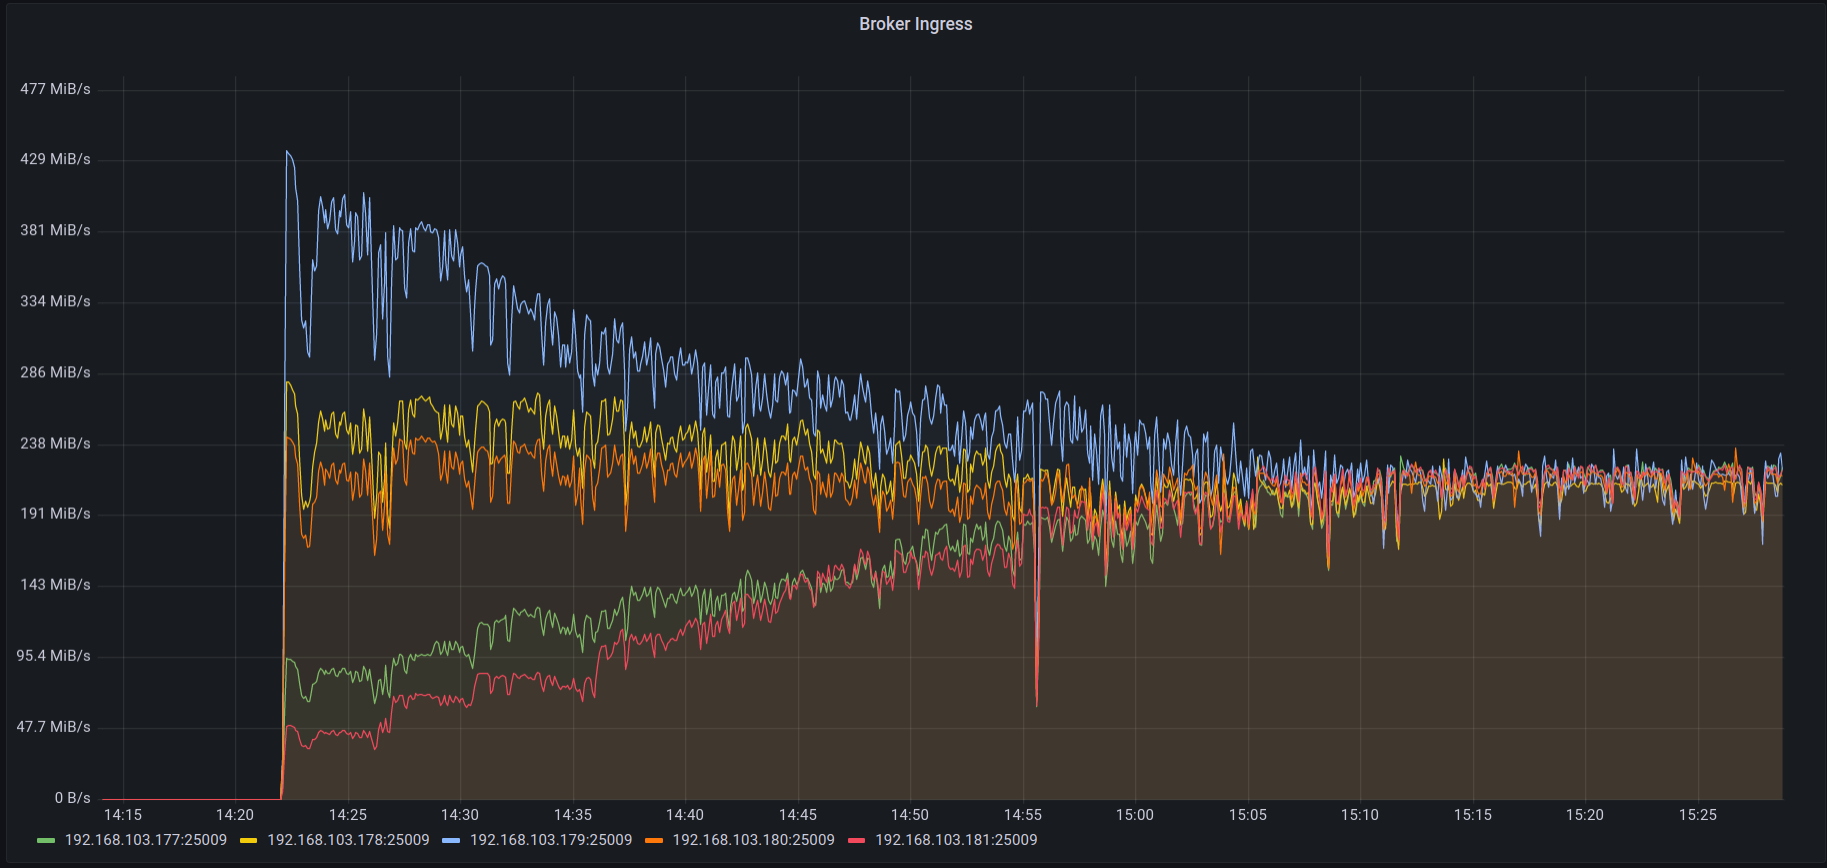
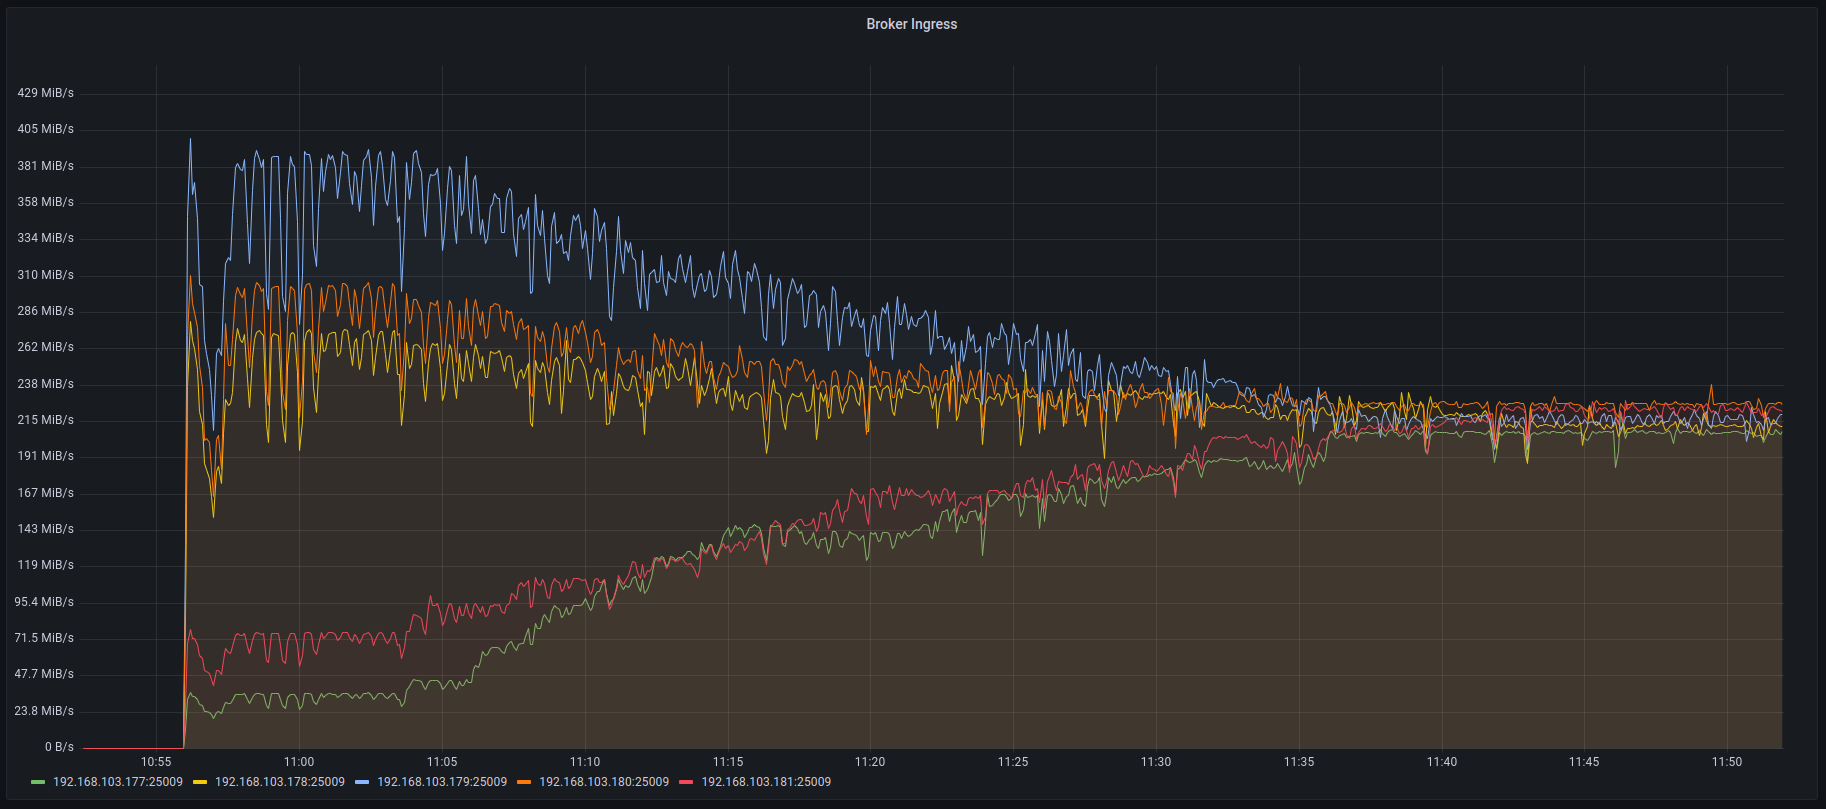
Redo balancer experiment at 5883c0d5f

diff --git a/docs/balancer/experiment_1.md b/docs/balancer/experiment_1.md
@@ -1,16 +1,16 @@
 # Astraea Balancer 測試 #1
 
-這個測試展示目前的 Astraea Balancer [(7596f59)](https://github.com/skiptests/astraea/tree/7596f590ae0f0ec370a6e257c10cc2aeb5fb5bf4) 
+這個測試展示目前的 Astraea Balancer [(5883c0d)](https://github.com/skiptests/astraea/commit/5883c0d5fbfb178714a4b3ab375d264ffcf7408d) 
 能在特定的系統環境中，平衡每個節點的 leader 數。
 
 在這次實驗中，Astraea Balancer 得到了以下結果：
 
-* 執行前節點的 Leader 數量最大最小分別為 77 和 9，執行後所有節點都服務 50 個 leader，達到完全平衡。
-* 執行前節點流量最大最小為 400 MiB/s 和 50 MiB/s，執行後各節點流量都控制在 250 MiB/s 附近。
+* 執行前節點的 Leader 數量最大最小分別為 83 和 17，執行後所有節點都服務 50 個 leader，達到完全平衡。
+* 執行前節點流量最大最小為 372 MiB/s 和 33.3 MiB/s，執行後各節點流量都控制在 210 MiB/s 附近。
 
 ## 測試情境
 
-我們透過專案內的 [WebAPI](https://github.com/skiptests/astraea/blob/7596f590ae0f0ec370a6e257c10cc2aeb5fb5bf4/docs/web_server/web_api_topics_chinese.md#%E5%BB%BA%E7%AB%8B-topic)
+我們透過專案內的 [WebAPI](https://github.com/skiptests/astraea/blob/5883c0d5fbfb178714a4b3ab375d264ffcf7408d/docs/web_server/web_api_topics_chinese.md#%E5%BB%BA%E7%AB%8B-topic)
 工具來對測試叢集產生一個 Leader 數量不平衡的情境。WebAPI 在建立 topic 時能夠透過特定參數來以 Binomial Distribution 營造 topic logs 
 在叢集內分佈不均的情況。這最終形成的分佈類似於對生產環境 Kafka 叢集不斷加減 topics/partitions/nodes 所導致的資料配置不均勻狀態。
 
@@ -61,9 +61,9 @@
 
 這個實驗中包含：
 
-* 5 個 Apache Kafka Broker 節點（version 3.1.0）。
+* 5 個 Apache Kafka Broker 節點（version 3.3.1）。
   * 各個節點包含 3 個 log dir，每個有 844GB 空間的 SSD
-* 1 個 Zookeeper 節點（version 3.7.1）。
+* 1 個 Zookeeper 節點（version 3.8.0）。
 * 1 個 Performance Tool 施打資料
 
 以下為建構環境的步驟：
@@ -71,8 +71,8 @@
 ### 建立 Kafka 叢集
 
 請依照上述的環境建立叢集，您可以使用專案內的 
-[./docker/start_zookeeper.sh](https://github.com/skiptests/astraea/blob/7596f590ae0f0ec370a6e257c10cc2aeb5fb5bf4/docs/run_zookeeper.md) 和
-[./docker/start_broker.sh](https://github.com/skiptests/astraea/blob/7596f590ae0f0ec370a6e257c10cc2aeb5fb5bf4/docs/run_kafka_broker.md) 來建立叢集。
+[./docker/start_zookeeper.sh](https://github.com/skiptests/astraea/blob/5883c0d5fbfb178714a4b3ab375d264ffcf7408d/docs/run_zookeeper.md) 和
+[./docker/start_broker.sh](https://github.com/skiptests/astraea/blob/5883c0d5fbfb178714a4b3ab375d264ffcf7408d/docs/run_kafka_broker.md) 來建立叢集。
 
 ## 效能資料攝取
 
@@ -81,9 +81,9 @@
 進行底層硬體效能資料的攝取。
 
 您可以使用專案內的 
-[./docker/start_node_exporter.sh](https://github.com/skiptests/astraea/blob/7596f590ae0f0ec370a6e257c10cc2aeb5fb5bf4/docs/run_node_exporter.md),
-[./docker/start_prometheus.sh](https://github.com/skiptests/astraea/blob/7596f590ae0f0ec370a6e257c10cc2aeb5fb5bf4/docs/run_prometheus.md) 和
-[./docker/start_grafana.sh](https://github.com/skiptests/astraea/blob/7596f590ae0f0ec370a6e257c10cc2aeb5fb5bf4/docs/run_grafana.md) 來建構監控環境。
+[./docker/start_node_exporter.sh](https://github.com/skiptests/astraea/blob/5883c0d5fbfb178714a4b3ab375d264ffcf7408d/docs/run_node_exporter.md),
+[./docker/start_prometheus.sh](https://github.com/skiptests/astraea/blob/5883c0d5fbfb178714a4b3ab375d264ffcf7408d/docs/run_prometheus.md) 和
+[./docker/start_grafana.sh](https://github.com/skiptests/astraea/blob/5883c0d5fbfb178714a4b3ab375d264ffcf7408d/docs/run_grafana.md) 來建構監控環境。
 
 本次實驗所使用的 Dashboard 可以在[這裡](resources/experiment_1_grafana-1663659783116.json)找到
 
@@ -94,7 +94,7 @@
 ```script
 git clone https://github.com/skiptests/astraea.git
 cd astraea
-git checkout 7596f590ae0f0ec370a6e257c10cc2aeb5fb5bf4
+git checkout 5883c0d5fbfb178714a4b3ab375d264ffcf7408d
 ```
 
 接著執行 Astraea Web Service，Astraea Web Service 提供一系列的功能，能幫助我們對 Kafka 進行管理和操作。
@@ -117,7 +117,7 @@ curl -X POST http://localhost:8001/topics \
 
 
 接着要開始對叢集輸入資料，我們在 P1 設備上執行下面的指令以啓動 
-[Astraea Performance Tool](https://github.com/skiptests/astraea/blob/7596f590ae0f0ec370a6e257c10cc2aeb5fb5bf4/docs/performance_benchmark.md)
+[Astraea Performance Tool](https://github.com/skiptests/astraea/blob/5883c0d5fbfb178714a4b3ab375d264ffcf7408d/docs/performance_benchmark.md)
 
 ```shell
 ./gradlew run --args="performance --bootstrap.servers <broker-addresses> --topics imbalance-topic --producers 8 --consumers 16 --key.size 10KiB --run.until 3h"
@@ -138,19 +138,76 @@ curl -X POST http://localhost:8001/topics \
 從圖中可以看出有一定的負載不平衡現象存在着。接着我們要開始做負載平衡，透過以下指令來執行 Leader Balance
 
 ```shell
-./gradlew run --args="balance-demo --bootstrap.servers <broker-addresses>"
+curl -X POST http://localhost:8001/balancer \
+    -H "Content-Type: application/json" \
+    -d '{ 
+      "timeout": "10s" ,
+      "balancer": "org.astraea.common.balancer.algorithms.GreedyBalancer",
+      "balancer-config": {
+        "shuffle.plan.generator.min.step": "1",
+        "shuffle.plan.generator.max.step": "5"
+      },
+      "costWeights": [ { "cost": "org.astraea.common.cost.ReplicaLeaderCost", "weight":  1} ],
+      "max-migrated-leader": "10"
+    }'
 ```
 
-> 未來 Balancer 的運作和執行都會透過 Web API 來操作
+上述指令對本機的 Web Service 發起一個 `POST /balancer` 的 HTTP Request，這個 Request 請 Web Service 根據我們給定的參數和
+目前叢集的狀態，去生成一個新的負載平衡計劃。以下是關於這個計劃的細節
 
-每次執行都會做一輪的負載平衡，每次都會給叢集帶來一定程度的進步，通常情況下您會需要重複執行多次上述的指令，直到您覺得叢集負載不平衡情況減緩爲止。
-這次實驗中我們總共執行了 9 次 Balancer。以下爲各項結果圖表：
+* `"timeout": "10s"`: 此計劃要在 10 秒內生成
+* `"balancer": "org.astraea.common.balancer.algorithms.GreedyBalancer"`:  計劃生成演算法實作
+* `"balancer-config": { ... }`: 計劃生成演算法的參數
+* `"costWeights": [ ... ]`: 計劃所採用的 Cost Functions，用來在生成算法中衡量叢集的好壞
+* `"max-migrated-leader": "10"`: 計劃的限制，最多只能移動 10 個 leader
+
+執行完成後後會在 terminal 上印出負載平衡計劃的編號：
+
+```shell
+# Something like this: {"id":"9b25bf14-a885-4c5b-97bf-59ff025b61d2"}
+{"id":"Your-Balance-Plan-Id"}
+```
+
+之後可以透過 `GET /balancer/Your-Balance-Plan-Id` 來查詢關於這個計劃的狀態，比如這個計劃是否生成完成，或是已經排程執行。
+
+```shell
+curl -X GET http://localhost:8001/balancer/46ecf6e7-aa28-4f72-b1b6-a788056c122a
+
+# {
+#   "id": "46ecf6e7-aa28-4f72-b1b6-a788056c122a", // 計劃的編號
+#   "generated": true,  // 計劃是否已經完成生成
+#   "scheduled": false, // 計劃是否已經排程執行
+#   "done": false,      // 計劃是否已經執行完成
+#   "report": { ... }   // 關於這個計劃的細節，計劃生成後才會有此詳細資訊
+# }
+```
+
+如果 `GET /balancer/Your-Balance-Plan-Id` 回傳結果中 `generated` 為 `true` 且 `report.changes` 內有詳細的移動資訊，則代表計劃已經完成生成。
+
+> 如果計劃生成失敗，可以檢查 `exception` 欄位的訊息，或是查看 Web Service 是否有印出錯誤的資訊，來做進一步的診斷。
+
+計劃成功生成後，可以透過 `PUT /balancer` 來執行負載平衡的計劃。
+
+```shell
+curl -X PUT http://localhost:8001/balancer \
+    -H "Content-Type: application/json" \
+    -d '{ "id": "Your-Balance-Plan-Id" }'
+```
+
+過程中可以透過 `GET /balancer/Your-Balance-Plan-Id` 來檢查執行的狀態，當輸出結果中的 `done` 為 `true` 時意味著計劃已經完成執行。
+
+> 如果計劃執行失敗，可以檢查 `exception` 欄位的訊息，或是查看 Web Service 是否有印出錯誤的資訊，來做進一步的診斷。
+
+> 詳細的 `/balancer` API 文件，可以參考[這裡](https://github.com/skiptests/astraea/blob/5883c0d5fbfb178714a4b3ab375d264ffcf7408d/docs/web_server/web_api_balancer_chinese.md)
+
+每次執行上述步驟都會做一輪的負載平衡，每次都會給叢集帶來一定程度的進步，通常情況下您會需要重複執行多次上述的指令，直到您覺得叢集負載不平衡情況減緩爲止。
+這次實驗中我們總共執行了 8 次 Balancer。以下爲各項結果圖表：
 
 ### Leader Count Time Series
 
 ![leader count](resources/experiment_1_7.png)
 
-上圖爲各節點的 leader 數量隨時間的變化，可以發現在經過 9 次負載平衡後，每個節點所維護的 leader 數量都達到 50 個，就這個指標來說非常平衡。
+上圖爲各節點的 leader 數量隨時間的變化，可以發現在經過 8 次負載平衡後，每個節點所維護的 leader 數量都達到 50 個，就這個指標來說非常平衡。
 
 > 先前用 web service 建立的 `imbalance-topic` 有著 200 個 partitions，而 consumer 運作所需的 `__consumer_offsets` 另外貢獻 50 個
 > partitions。兩者加起來正好 50 * 5 = 250 個 partitions，分散在五個節點上。
@@ -173,7 +230,7 @@ curl -X POST http://localhost:8001/topics \
 
 ![ongoing reassignment bandwidth](resources/experiment_1_6.png)
 
-上圖爲各各節點所統計的負載平衡流量，每次負載平衡都會給叢集帶來額外的效能開銷，從圖中可以看到我們總共經歷了 9 次的負載平衡過程。
+上圖爲各各節點所統計的負載平衡流量，每次負載平衡都會給叢集帶來額外的效能開銷，從圖中可以看到我們總共經歷了 8 次的負載平衡過程。
 
 ### Network IO (hardware)
 
